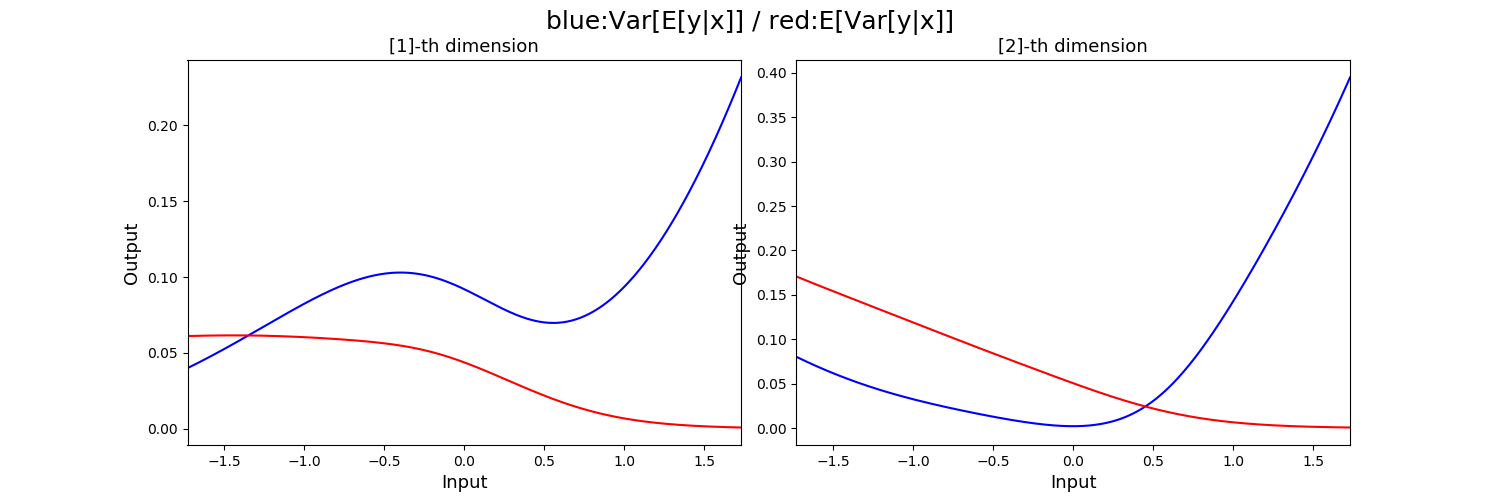
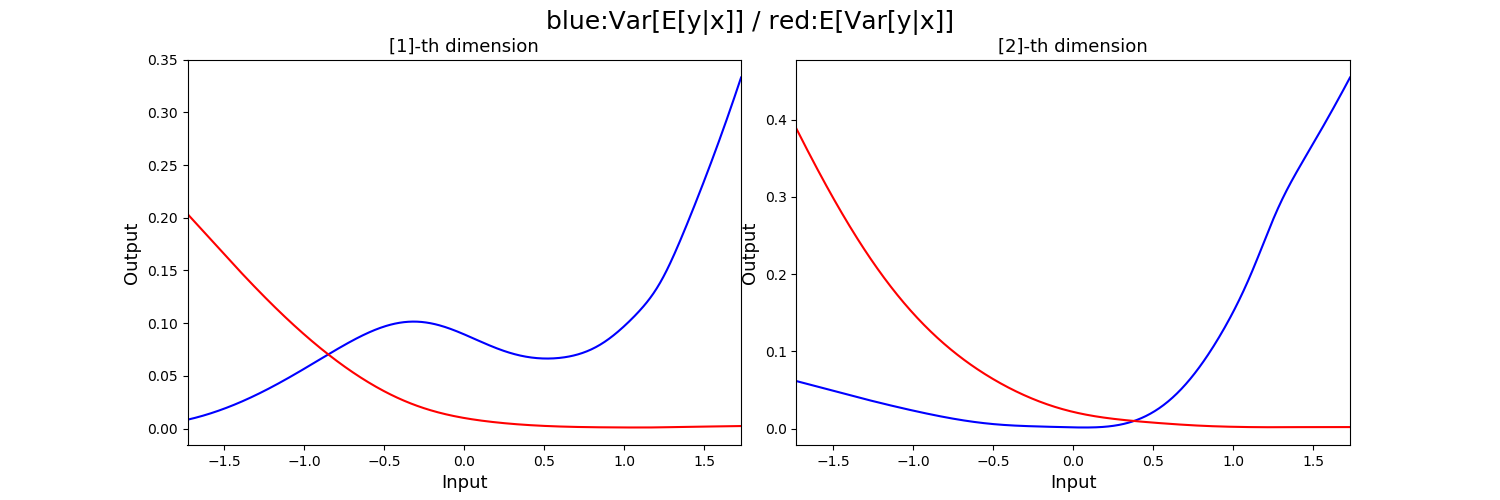
edit batch_size

diff --git a/demo_mdn.py b/demo_mdn.py
@@ -45,6 +45,7 @@ def train(model, optimizer, x_train, y_train, x_test, epoch, batch_size):
         r_idx = np.random.permutation(n_train)[:batch_size]
         x_batch, y_batch = x_train[r_idx, :], y_train[r_idx, :]  # current batch
         # Optimize the network
+
         loss=_train([x_batch,y_batch])
         print("= epoch : {} loss {} =".format(e,loss[0]))
 
@@ -89,4 +90,4 @@ if __name__ =='__main__':
     # plot_model(M, to_file='model.png')
     M(x_train[:100])
     # train
-    train(M, optimizer, x_train, y_train, x_test, 20000, 256)
+    train(M, optimizer, x_train, y_train, x_test, 20000, 64)

diff --git a/subclass_model.py b/subclass_model.py
@@ -107,7 +107,7 @@ class MDN_reg_class(Model):
         tfd_mog=self.call(x_train)
         log_liks=tfd_mog.log_prob(y_true)
         log_lik=K.mean(log_liks)
-        return -log_lik*100
+        return -log_lik
 
     # # Plot results
     def plot_result(self, _x_test,epoch, _title='MDN result', _fontsize=18,
